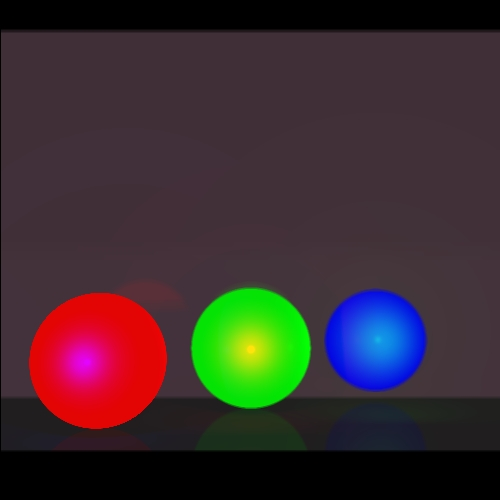
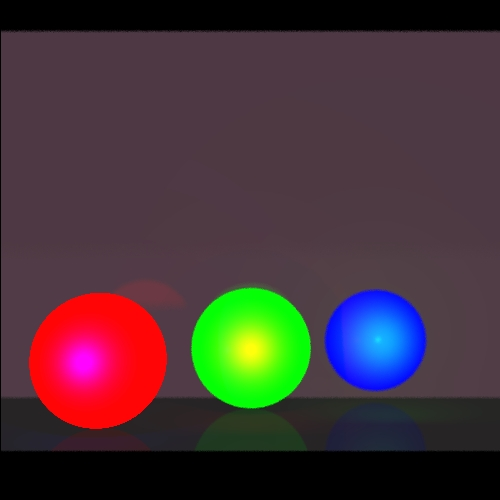
add random rays to DOF

Changed region(s): [[0.06, 0.57, 0.33, 0.87], [0.36, 0.57, 0.6, 0.84], [0.63, 0.57, 0.87, 0.78]]

diff --git a/src/main/java/com/ud_avi/raytrace/elements/Camera.java b/src/main/java/com/ud_avi/raytrace/elements/Camera.java
@@ -11,6 +11,7 @@ import com.ud_avi.raytrace.primitives.*;
 
 import java.util.ArrayList;
 import java.util.List;
+import java.util.concurrent.ThreadLocalRandom;
 
 /**
  * Camera is the Class that represent the Camera in the scene
@@ -22,8 +23,8 @@ public class Camera {
    private Vector _rightVector;
    private double _focalLength;
    private double _apertureSize;
-    private int _numOfDOFRays = 24;
-    private Boolean _isDOF = false;
+   private int _numOfDOFRays = 24;
+   private Boolean _isDOF = false;
 
     // ***************** Constructors ********************** //
 
@@ -135,6 +136,14 @@ public class Camera {
        return num;
     }
 
+    /**
+     * Use this to avoid "Noisy" images. the number of rays should be in proportion to the aperture size
+     * @param numOfDOFRays the number
+     */
+    public void setNumOfDOFRays(int numOfDOFRays) {
+        _numOfDOFRays = numOfDOFRays;
+    }
+
     // ***************** Operations ******************** //
     /**
      * Construct the Rays from the Camera to the place in te view plane
@@ -207,71 +216,26 @@ public class Camera {
      * @return Rays from the view plane
      */
     private List<Ray> constructDOFRays(Ray mainRay){
-        double halfSize = _apertureSize /2;
-
         Vector mainVector = mainRay.getDirection();
         Point3D mainPoint = mainRay.getPoint();
 
         //focal point = point + vector * focal length
         ArrayList<Ray> listOfRays = new ArrayList<>();
         Point3D focalPoint = mainPoint.addVector(mainVector.scale(_focalLength));
-        //calc the point and vectors
-        Point3D halfUpPoint = mainPoint.addVector(_upVector.scale(halfSize));
-        Point3D fullUpPoint = mainPoint.addVector(_upVector.scale(_apertureSize));
-        Point3D halfDownPoint = mainPoint.addVector(_upVector.scale(-halfSize));
-        Point3D fullDownPoint = mainPoint.addVector(_upVector.scale(-_apertureSize));
-        Vector halfRight = _rightVector.scale(halfSize);
-        Vector fullRight = _rightVector.scale(_apertureSize);
-        Vector halfLeft = _rightVector.scale(-halfSize);
-        Vector fullLeft = _rightVector.scale(-_apertureSize);
+        for (int i = 0; i < _numOfDOFRays; ++i){
+            double r1 = ThreadLocalRandom.current().nextDouble(-_apertureSize,_apertureSize);
+            double r2 = ThreadLocalRandom.current().nextDouble(-_apertureSize,_apertureSize);
 
-        //the middle rays
-        Ray halfUpRay = new Ray(focalPoint.subtract(halfUpPoint),halfUpPoint);
-        Ray fullUpRay = new Ray(focalPoint.subtract(fullUpPoint),fullUpPoint);
-        Ray halfDownRay = new Ray(focalPoint.subtract(halfDownPoint),halfDownPoint);
-        Ray fullDownRay = new Ray(focalPoint.subtract(fullDownPoint),fullDownPoint);
+            if(Coordinate.ZERO.equals(r1))
+                r1 = 0.1;
+            if(Coordinate.ZERO.equals(r2))
+                r2 = 0.1;
 
-        listOfRays.add(halfUpRay);
-        listOfRays.add(fullUpRay);
-        listOfRays.add(halfDownRay);
-        listOfRays.add(fullDownRay);
-
-        //crate map like
-        for(int i = 1;i<5;++i){
-            switch (i){
-                case 1:
-                    mainPoint = halfUpPoint;
-                    break;
-                case 2:
-                    mainPoint = fullUpPoint;
-                    break;
-                case 3:
-                    mainPoint = halfDownPoint;
-                    break;
-                case 4:
-                    mainPoint = fullDownPoint;
-                    break;
-
-            }
-
-            Point3D point1 = mainPoint.addVector(halfRight);
-            Ray focalRay6 = new Ray(focalPoint.subtract(point1),point1);
-            listOfRays.add(focalRay6);
-
-            Point3D point2 = mainPoint.addVector(fullRight);
-            Ray focalRay7 = new Ray(focalPoint.subtract(point2),point2);
-            listOfRays.add(focalRay7);
-
-            Point3D point3 = mainPoint.addVector(halfLeft);
-            Ray focalRay8 = new Ray(focalPoint.subtract(point3),point3);
-            listOfRays.add(focalRay8);
-
-            Point3D point4 = mainPoint.addVector(fullLeft);
-            Ray focalRay9 = new Ray(focalPoint.subtract(point4),point4);
-            listOfRays.add(focalRay9);
-
+            Point3D rPoint = mainPoint.addVector(_upVector.scale(r1)).addVector(_rightVector.scale(r2));
+            Ray focalRay = new Ray(focalPoint.subtract(rPoint),rPoint);
+            listOfRays.add(focalRay);
         }
-        //set the rays from the view plane
+
         return listOfRays;
     }
     /**

diff --git a/src/test/java/com/ud_avi/raytrace/AdvanceRenderTest.java b/src/test/java/com/ud_avi/raytrace/AdvanceRenderTest.java
@@ -22,6 +22,7 @@ public class AdvanceRenderTest {
         scene.setCamera(new Camera(new Point3D(0, -200, -730),new Vector(0, -1, 0), new Vector(0,0,1)));
         //scene.getCamera().rotateX(10);
         scene.getCamera().setApertureSize(15);
+        scene.getCamera().setNumOfDOFRays(200);
         scene.getCamera().setFocalLength(80);
         scene.getCamera().setDOF(true);
 
@@ -186,7 +187,7 @@ public class AdvanceRenderTest {
     }
 
     //====extra tests====//
-    @Test
+   // @Test
     public void streetTest(){
         Scene scene = new Scene("Test");
         Camera camera = new Camera(new Point3D(-270, -280, 710), new Vector(0, -1, 0), new Vector(0, 0, -1));
